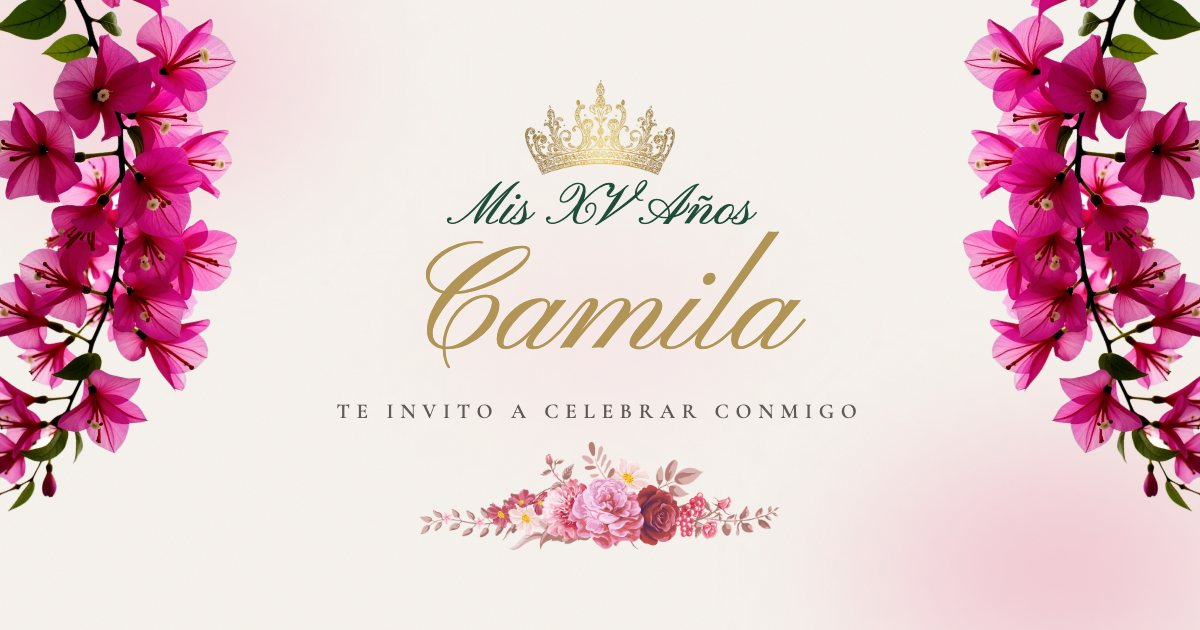
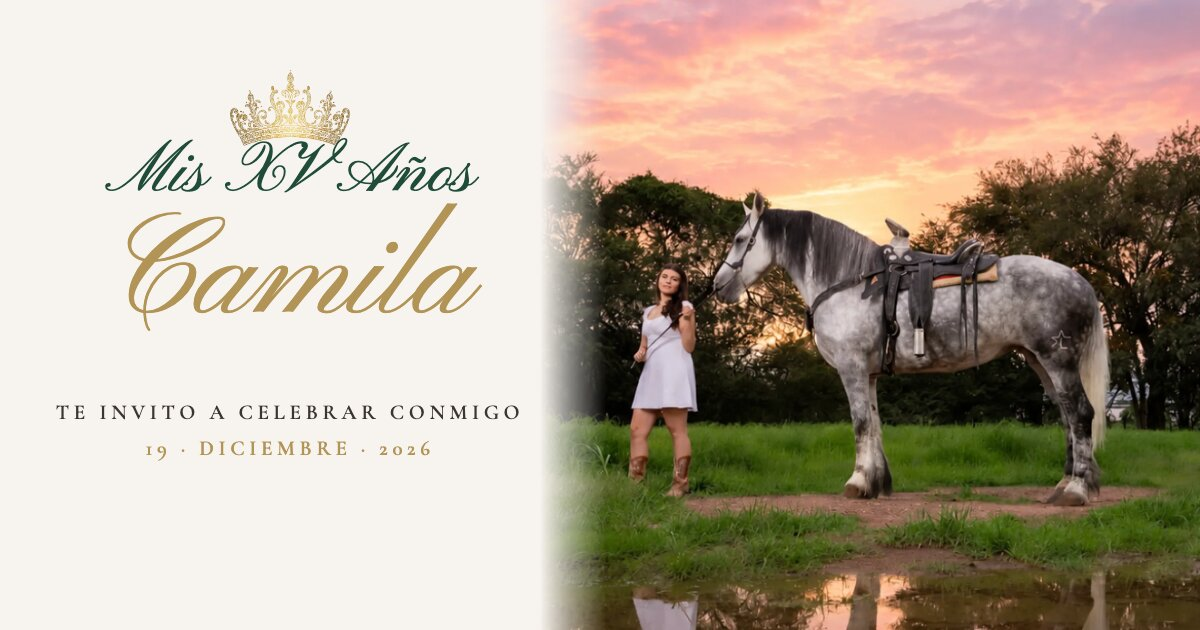
Actualiza la vista previa para compartir de camila-xv con la foto del atardecer

diff --git a/sites/camila-xv/index.html b/sites/camila-xv/index.html
@@ -27,16 +27,16 @@
     <meta property="og:site_name" content="Mis XV Años · Camila" />
     <meta property="og:title" content="Mis XV Años · Camila 👑" />
     <meta property="og:description" content="Te invito a celebrar conmigo mis XV años. Abre tu invitación para ver la fecha, el lugar y confirmar tu asistencia. " />
-    <meta property="og:image" content="%VITE_SITE_URL%images/og.jpg" />
-    <meta property="og:image:secure_url" content="%VITE_SITE_URL%images/og.jpg" />
+    <meta property="og:image" content="%VITE_SITE_URL%images/og.jpg?v=2" />
+    <meta property="og:image:secure_url" content="%VITE_SITE_URL%images/og.jpg?v=2" />
     <meta property="og:image:type" content="image/jpeg" />
     <meta property="og:image:width" content="1200" />
     <meta property="og:image:height" content="630" />
-    <meta property="og:image:alt" content="Corona dorada y bugambilias con el texto: Mis XV Años, Camila. Te invito a celebrar conmigo" />
+    <meta property="og:image:alt" content="Camila con un caballo tordillo al atardecer, junto al texto: Mis XV Años, Camila. Te invito a celebrar conmigo, 19 de diciembre de 2026" />
     <meta name="twitter:card" content="summary_large_image" />
     <meta name="twitter:title" content="Mis XV Años · Camila 👑" />
     <meta name="twitter:description" content="Te invito a celebrar conmigo mis XV años." />
-    <meta name="twitter:image" content="%VITE_SITE_URL%images/og.jpg" />
+    <meta name="twitter:image" content="%VITE_SITE_URL%images/og.jpg?v=2" />
     <link rel="preconnect" href="https://fonts.googleapis.com" />
     <link rel="preconnect" href="https://fonts.gstatic.com" crossorigin />
     <link
